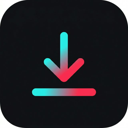
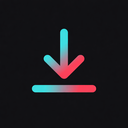
fixed icon16,48,128

diff --git a/options/options.html b/options/options.html
@@ -27,7 +27,7 @@
 
     <!-- Disclaimer -->
     <div class="disclaimer-section">
-      <div class="disclaimer-icon">⚠</div>
+      <div class="disclaimer-icon"></div>
       <p>This extension only downloads videos you have explicit permission to save. It does not bypass any platform protections, DRM, login walls, or access controls. Only use this for your own content or publicly accessible, download-permitted content.</p>
     </div>
 
